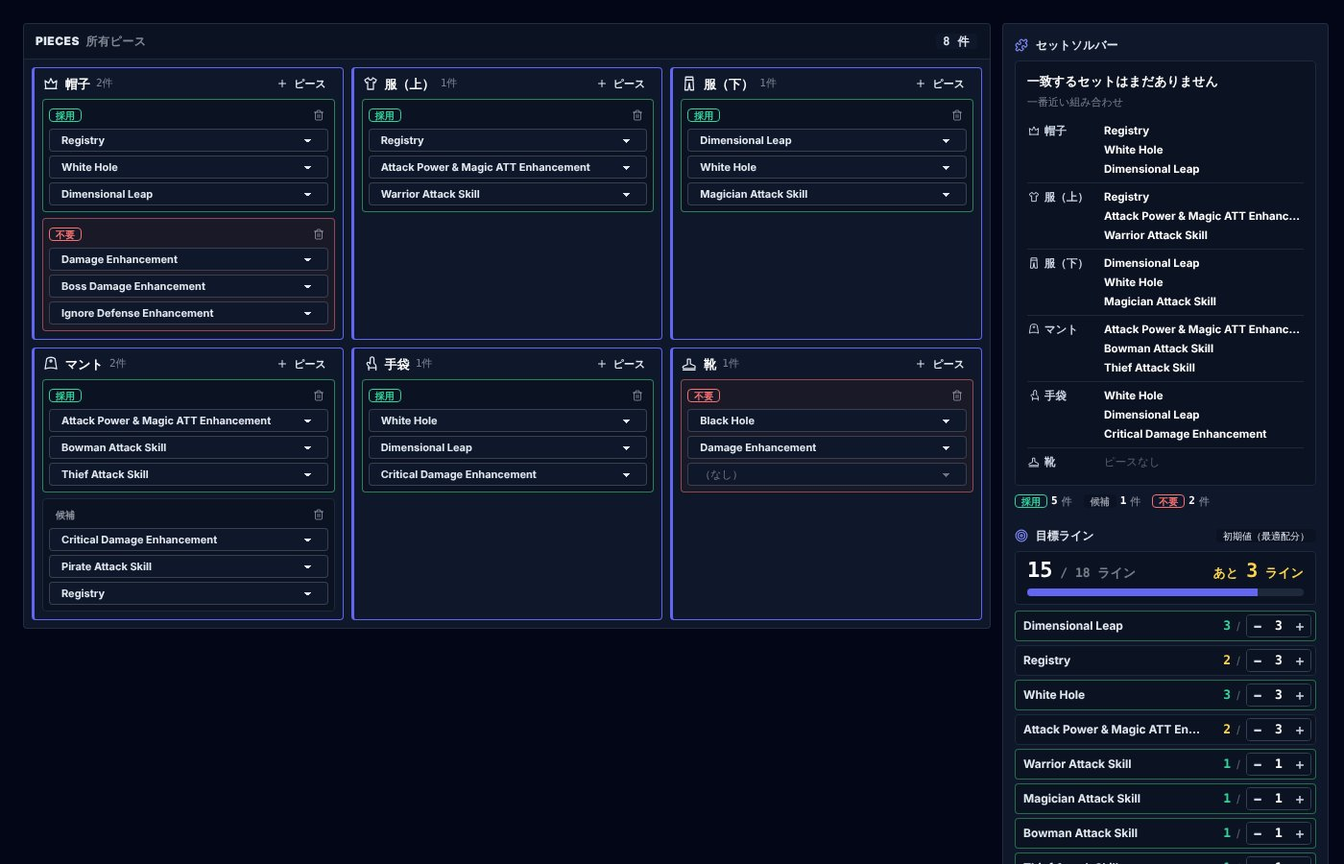
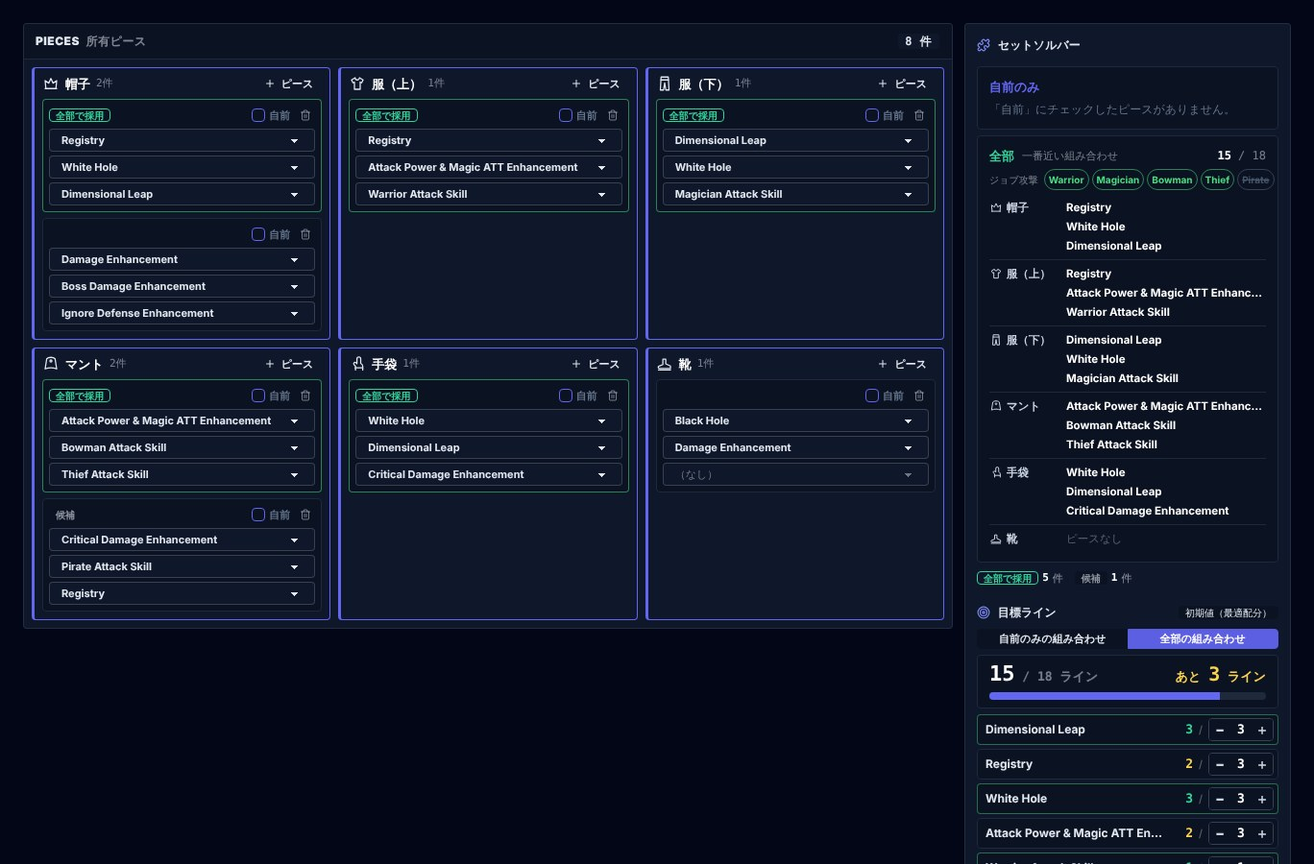
Quanah Tools: アプリのキーを quanah に（旧 #libae は転送）、所有ピースの「不要」札を削除
- APPS のキーと要素の id を quanah に。旧キーは APP_ALIASES で今のキーへ読み替え、URL も書き換える
- 利用状況は旧キーの記録を今のキーにまとめて数える
- 所有ピースの「不要」札・赤枠・件数を出さない（入力のたびに変わって誤解を招くため）。Guide・README も合わせて修正、Guide のスクショ 18 を撮り直し

Claude-Session: https://claude.ai/code/session_01VfuuungApVwhHvPPZNJUXm

diff --git a/public/libae_gear.js b/public/libae_gear.js
@@ -1,12 +1,12 @@
 /* =========================================================
- *  Quanah Tools（サイドバーの Event。旧名 Libae's Gear、キー libae はそのまま）
+ *  Quanah Tools（サイドバーの Event。旧名 Libae's Gear。アプリのキーは quanah、ファイル名と保存キーは libae のまま）
  *  Event World: Quanah の装備「Libae's Supercharged」6部位の [Hologram] スキルラインとジュエルを登録して、
  *  スキルの合計レベル・ジュエルのステータス・ジュエル強化の残り素材（Dust 換算）を出す。
  *  bi がアップロードした単体版（Libae's gear 管理アプリ 公開版、2026-11-08 調査の PTS 情報）を移植（2026-11-09）。
  *  2026-11-13 の公開版に合わせて、目標ライン（18ラインの目標配分）・装備ラインの判定（寄与／超過／対象外）・
  *  所有ピースとセットソルバー（各部位1つずつ選んで目標に合う組み合わせを探す）を追加。
  *
- *  - 上部ヘッダーのタブ（#libae-nav）で 装備管理／所有ピース／ジュエル強化／資料 を切り替える。
+ *  - 上部ヘッダーのタブ（#quanah-nav）で 装備管理／所有ピース／ジュエル強化／資料 を切り替える。
  *  - 保存はこのブラウザだけ（libae-gear-public-v1 / libae-jewel-settings-public-v1 / libae-skill-target-public-v1 /
  *    libae-owned-pieces-public-v1、単体版と同じキー）。JSON の書き出し・読み込みは単体版と同じ形
  *    （app: 'libae-gear', version: 1、skillTarget・ownedPieces 付き）で、本家アプリの書き出し（gear が配列）も読める。
@@ -435,7 +435,8 @@ const libaeGear = (() => {
         return { exact: !!best && matched === totalTarget && best[2] === 0, truncated, counts: bestCounts, picks: pickList, shortage, excess, matched, totalTarget,
             atkCovered: ATK.filter((nm) => atkHave.has(nm)), atkPossible: ATK.filter((_, x) => suffixAtk[0] & (1 << x)) };
     }
-    // ピースの判定: 採用（最適セットに入っている）／候補（足りないスキルを含む）／不要（足りないスキルを1つも含まない）。
+    // ピースの判定: 採用（最適セットに入っている）／候補（足りないスキルを含む）／unneeded（足りないスキルを1つも含まない）。
+    // unneeded は画面に札を出さない（入力のたびに変わって誤解を招くため、2026-11-17 bi 指示）。
     function classifyPieces(pieces, targetLines, result) {
         const verdicts = {}; if (!result) return verdicts;
         const tm = targetMapOf(targetLines);
@@ -451,7 +452,6 @@ const libaeGear = (() => {
     const PIECE_VERDICT = {
         adopted: { label: '採用', cls: 'badge-success badge-outline', tip: '最適セットに採用中' },
         candidate: { label: '候補', cls: 'badge-ghost text-base-content/60', tip: '足りないスキルを含むので保持' },
-        unneeded: { label: '不要', cls: 'badge-error badge-outline', tip: '足りないスキルを1つも含まない（処分してよい目安）' },
     };
 
     /* ---------- 装備管理 ---------- */
@@ -662,8 +662,8 @@ const libaeGear = (() => {
         const del = pieceDelAsk === p.id
             ? `<button type="button" class="btn btn-error btn-xs h-5 min-h-0" data-act="p-del-yes" data-pid="${p.id}">本当に削除</button><button type="button" class="btn btn-ghost btn-xs h-5 min-h-0" data-act="p-del-no">キャンセル</button>`
             : `<button type="button" class="btn btn-ghost btn-xs btn-square h-5 min-h-0 w-5 text-base-content/50 hover:text-error" data-act="p-del" data-pid="${p.id}" title="このピースを削除" aria-label="${esc(SLOT_LABEL[slot])}のピースを削除"><i data-lucide="trash-2" class="w-3 h-3"></i></button>`;
-        const badges = v === 'adopted' ? `${adopt.own ? ADOPT_BADGE.own : ''}${adopt.all ? ADOPT_BADGE.all : ''}` : v ? pvBadge(v) : '<span class="text-[11px] text-base-content/40">ライン未入力</span>';
-        const box = dupOf ? 'lg-piece-dup' : v === 'unneeded' ? 'lg-piece-unneeded' : v === 'adopted' ? (adopt.all ? 'lg-piece-adopted' : 'lg-piece-adopted-own') : '';
+        const badges = v === 'adopted' ? `${adopt.own ? ADOPT_BADGE.own : ''}${adopt.all ? ADOPT_BADGE.all : ''}` : v === 'unneeded' ? '' : v ? pvBadge(v) : '<span class="text-[11px] text-base-content/40">ライン未入力</span>';
+        const box = dupOf ? 'lg-piece-dup' : v === 'adopted' ? (adopt.all ? 'lg-piece-adopted' : 'lg-piece-adopted-own') : '';
         return `<div class="lg-piece ${box}">
             <div class="flex items-center gap-1 h-5">${dupOf ? dupBadge(dupOf) : ''}${badges}<span class="ml-auto flex items-center gap-1.5"><label class="lg-own ${p.own ? 'lg-own-on' : ''}" title="自前の装備（自分で持っているピース）。「自前のみ」の組み合わせに使います"><input type="checkbox" class="checkbox checkbox-primary checkbox-xs" data-act="p-own" data-pid="${p.id}" ${p.own ? 'checked' : ''}>自前</label>${del}</span></div>
             <div class="flex flex-col gap-1 mt-1">${vals.map((val, i) => `<select data-act="p-line" data-pid="${p.id}" data-idx="${i}" class="select select-xs w-full min-w-0 ${val ? 'font-bold' : 'text-base-content/45'}" aria-label="${esc(SLOT_LABEL[slot])}のピース スキルライン ${i + 1}">${skillOptionsHTML(val, vals.filter((_, j) => j !== i))}</select>`).join('')}</div>
@@ -671,7 +671,7 @@ const libaeGear = (() => {
     }
     function piecesHTML() {
         const pieces = ownedPieces, lines = effectiveTargetLines();
-        // 組み合わせは 全部 と 自前のみ の2通り。ピースの判定（採用／候補／不要）は2通りの良い方
+        // 組み合わせは 全部 と 自前のみ の2通り。ピースの判定（採用／候補）は2通りの良い方
         // （自前のピースは 自前のみ の組み合わせでの判定も見る。どちらかで採用なら採用）。
         const result = pieces.length ? solveSet(pieces, lines) : null;
         const ownPieces = pieces.filter((p) => p.own);
@@ -722,7 +722,7 @@ const libaeGear = (() => {
         else {
             side += card('own', '自前のみ', ownResult, '「自前」にチェックしたピースがありません。');
             side += card('all', '全部', result, '');
-            side += `<div class="flex flex-wrap items-center gap-x-3 gap-y-1 mt-1.5 text-[11px] text-base-content/60">${ownResult ? `<span class="inline-flex items-center gap-1">${ADOPT_BADGE.own}<b class="font-mono text-white">${inOwn.size}</b>件</span>` : ''}<span class="inline-flex items-center gap-1">${ADOPT_BADGE.all}<b class="font-mono text-white">${inAll.size}</b>件</span>${['candidate', 'unneeded'].map((k) => `<span class="inline-flex items-center gap-1" title="${esc(PIECE_VERDICT[k].tip)}（自前のピースは自前のみの組み合わせでも判定し、良い方）">${pvBadge(k)}<b class="font-mono text-white">${counts[k]}</b>件</span>`).join('')}${dupCount ? `<span class="inline-flex items-center gap-1">${dupBadge(0)}<b class="font-mono text-white">${dupCount}</b>件</span>` : ''}</div>`;
+            side += `<div class="flex flex-wrap items-center gap-x-3 gap-y-1 mt-1.5 text-[11px] text-base-content/60">${ownResult ? `<span class="inline-flex items-center gap-1">${ADOPT_BADGE.own}<b class="font-mono text-white">${inOwn.size}</b>件</span>` : ''}<span class="inline-flex items-center gap-1">${ADOPT_BADGE.all}<b class="font-mono text-white">${inAll.size}</b>件</span>${['candidate'].map((k) => `<span class="inline-flex items-center gap-1" title="${esc(PIECE_VERDICT[k].tip)}（自前のピースは自前のみの組み合わせでも判定し、良い方）">${pvBadge(k)}<b class="font-mono text-white">${counts[k]}</b>件</span>`).join('')}${dupCount ? `<span class="inline-flex items-center gap-1">${dupBadge(0)}<b class="font-mono text-white">${dupCount}</b>件</span>` : ''}</div>`;
         }
         const shown = patView === 'own' ? ownResult : result;
         const toggle = pieces.length && result ? `<div class="join w-full mb-1.5" role="group" aria-label="目標ラインに出す組み合わせ">${[['own', '自前のみ'], ['all', '全部']].map(([k, l]) => `<button type="button" class="btn btn-xs join-item flex-1 ${patView === k ? 'btn-primary' : ''}" data-act="pat" data-pat="${k}" aria-pressed="${patView === k}">${l}の組み合わせ</button>`).join('')}</div>` : '';
@@ -983,7 +983,7 @@ const libaeGear = (() => {
     /* ---------- 描画 ---------- */
     const icons = () => { if (window.lucide) lucide.createIcons(); };
     function syncNav() {
-        document.querySelectorAll('#libae-nav [data-tab]').forEach((b) => b.classList.toggle('tab-active', b.dataset.tab === tab));
+        document.querySelectorAll('#quanah-nav [data-tab]').forEach((b) => b.classList.toggle('tab-active', b.dataset.tab === tab));
     }
     function render() {
         if (!rootEl) return;

diff --git a/public/guide.js b/public/guide.js
@@ -22,13 +22,13 @@ const guide = {
                       '説明の右上の「開く」で、そのアプリを開けます。'] },
         ] },
         { group: 'Event', icon: 'party-popper', apps: [
-            { key: 'libae', name: 'Quanah Tools', one: 'Event World: Quanah の装備「Libae\'s Supercharged」6部位のスキルラインとジュエルを登録して、スキルの合計レベル・目標ラインまでの残り・ジュエルのステータス・ジュエル強化の残り素材を出します。手持ちのピースから目標に合う組み合わせも探せます。ダンジョン Battlesim のプログラム図鑑も付いています。',
+            { key: 'quanah', name: 'Quanah Tools', one: 'Event World: Quanah の装備「Libae\'s Supercharged」6部位のスキルラインとジュエルを登録して、スキルの合計レベル・目標ラインまでの残り・ジュエルのステータス・ジュエル強化の残り素材を出します。手持ちのピースから目標に合う組み合わせも探せます。ダンジョン Battlesim のプログラム図鑑も付いています。',
               steps: ['「装備管理」で部位ごとに [Hologram] スキルライン（最大3つ）を選び、「＋ ソケット」でジュエルの色と Lv、能力を入れます。プリズマティックジュエルはスキルかステータスを2行選べます。',
                       '右の列に、スキルごとの合計 Lv（装備＋ジュエル。藍色が装備、ピンクがジュエル）と、ジュエルで増えるステータスの合計が出ます。装備のラインは1スキル Lv.3 まで、ジュエル込みの上限（Master Level）は Lv.8 です。',
                       '右の列の「目標ライン」は、スキルごとに何ライン積みたいかの目標です。初期値は isophi の 3L Set Solver の最適配分（Dimensional Leap・Registry・White Hole・攻撃力＆魔力が各3、ジョブ攻撃5種が各1、クリティカルダメージが1、合計18）で、「−」「＋」で変えたり、下の欄でスキルを足したりできます（0 にするとその行が消えます）。「Job Attack Skills (Total)」を足すと、ジョブ攻撃5種をまとめて数えます。下の「クリダメ・ボスダメはどちらでもよい」にチェックすると、Critical Damage Enhancement と Boss Damage Enhancement の目標を合わせて1行にし、どちらのラインでも埋まったと数えます（判定とセットソルバーの両方）。',
                       '装備の各スキルラインは、目標に対して色が付きます。緑（寄与）は目標を満たすのに使われているライン、赤（超過）は目標の数を超えた分、灰（対象外）は目標にないスキルです。数える順は、プリズマティックジュエルの分が先で、次に 帽子→マント→服（上）→服（下）→手袋→靴 の順です。部位名の横の「寄与 x/y」が0本の部位は赤い枠になります。',
                       '「所有ピース」には、装備していない手持ちのピースを部位ごとに「＋ ピース」で登録します（1つの装備に同じスキルは付かないので、装備管理と同じく、同じピースの他の行で選んだスキルは選択肢に出ません）。自分で持っているピースには「自前」にチェックを付けます。右の「セットソルバー」が、各部位から1つずつ選んで目標ラインに一致する組み合わせ（なければ一番近いもの）を、「自前のみ」（チェックしたピースだけ）と「全部」の2通りで出します。選ぶ基準は、まずジョブ攻撃5種（Warrior・Magician・Bowman・Thief・Pirate Attack Skill）がそれぞれ1ライン以上あること、次に目標ラインがいちばん多く埋まること、最後に目標を超えるラインが少ないことの順です。各組み合わせの「ジョブ攻撃」の欄で、揃った種類が緑、足りない種類が取り消し線で出ます。右下の目標ラインは、上のボタンで選んだ方の組み合わせでの達成状況です。',
-                      '各ピースには判定が付きます。「自前で採用」（藍）は自前のみの組み合わせ、「全部で採用」（緑）は全部の組み合わせに入っているピースで、両方に入っていれば2つ並びます。組み合わせの見出しも同じ色です。「候補」は組み合わせで足りないスキルを含むので取っておくピース、「不要」は足りないスキルを1つも含まないピース（処分してよい目安）です。目標やピースを変えると付け直します。',
+                      '各ピースには判定が付きます。「自前で採用」（藍）は自前のみの組み合わせ、「全部で採用」（緑）は全部の組み合わせに入っているピースで、両方に入っていれば2つ並びます。組み合わせの見出しも同じ色です。「候補」は組み合わせで足りないスキルを含むので取っておくピースです。目標やピースを変えると付け直します。',
                       '「ジュエルを一括で」の Lv を押すと、装着中のジュエルを全部その Lv にします（空きソケットはそのまま）。',
                       '「ジュエル強化」で、Lv.5 までに要る素材の残りを、全体・色別・装備ごとに見られます。素材は同じ色のジュエルだけ使え、足りない分を Dust で買う量（カラー 500、プリズマティック 3,000）も出ます。',
                       '「バトルシム」は、ダンジョン Battlesim で手に入るプログラム全46種の図鑑です。上にフュージョン（Overclocked Fusion）の取る順番と、評価（取る／状況次第／取らない／マイナス効果／言及なし）ごとのアイコン一覧があり、アイコンを押すとそのプログラムの説明に移ります。下の欄で名前や効果を検索したり、評価で絞り込んだりできます。評価は Shapaz さんのガイド動画、アイコンと効果は GMS クライアントから抽出したデータです。',

diff --git a/public/index.html b/public/index.html
@@ -115,7 +115,7 @@
                 </button></li>
                 <!-- 期間限定のイベント用のアプリ。 -->
                 <li class="menu-title">Event</li>
-                <li><button onclick="app.switchApp('libae')" id="app-libae"
+                <li><button onclick="app.switchApp('quanah')" id="app-quanah"
                     class="nav-item" title="Quanah Tools（Quanah の Libae's Supercharged 装備のスキルラインとジュエル、バトルシムのプログラム図鑑）">
                     <i data-lucide="gem" class="w-5 h-5"></i>
                     <span class="nav-label">Quanah Tools</span>
@@ -326,7 +326,7 @@
                 <button onclick="expUltima.setWorld('CHALLENGER')" data-world="CHALLENGER" role="tab" class="tab">Challenger</button>
             </nav>
             <!-- Quanah Tools の 装備管理／所有ピース／ジュエル強化／バトルシム／資料（Quanah Tools のときだけ出す）。押したときの切り替えは libae_gear.js -->
-            <nav id="libae-nav" role="tablist" class="tabs tabs-box tabs-sm flex-nowrap hidden mr-3 shrink-0">
+            <nav id="quanah-nav" role="tablist" class="tabs tabs-box tabs-sm flex-nowrap hidden mr-3 shrink-0">
                 <button onclick="libaeGear.setTab('gear')" data-tab="gear" role="tab" class="tab tab-active gap-1.5">
                     <i data-lucide="shirt" class="w-3.5 h-3.5"></i>装備管理
                 </button>
@@ -486,7 +486,7 @@
                 <!-- 中身は symbol_planner.js が描く。初回オープン時に読み込む（script.js の APPS）。 -->
                 <div id="view-symbol" class="hidden-page fade-in"></div>
                 <!-- 中身は libae_gear.js が描く。初回オープン時に読み込む（script.js の APPS）。 -->
-                <div id="view-libae" class="hidden-page fade-in"></div>
+                <div id="view-quanah" class="hidden-page fade-in"></div>
                 <!-- 中身は exp_ultima.js が描く（計算は exp_plan.js と共通）。初回オープン時に読み込む（script.js の APPS）。 -->
                 <div id="view-ultima" class="hidden-page fade-in"></div>
                 <!-- 中身は kms_videos.js が描く。初回オープン時に読み込む（script.js の APPS）。 -->

diff --git a/public/script.js b/public/script.js
@@ -624,11 +624,12 @@ const app = {
             init() { partyScouter.init('view-ptscouter'); },
             reopen() { partyScouter.render(); }
         },
-        libae: {
-            view: 'view-libae',
-            nav: 'libae-nav',
+        // Quanah Tools（旧名 Libae's Gear）。ファイル名と保存キーは libae のまま
+        quanah: {
+            view: 'view-quanah',
+            nav: 'quanah-nav',
             scripts: ['libae_battlesim.js', 'libae_gear.js'],
-            init() { libaeGear.init('view-libae'); },
+            init() { libaeGear.init('view-quanah'); },
             reopen() { libaeGear.render(); }
         },
         ultima: {
@@ -743,11 +744,19 @@ const app = {
     // ?view=1 などのクエリはそのまま残す。
     // アプリの中の画面も URL にしたいアプリは、/#<キー>/<中の画面> の形にする（今は Journal の回だけ）。
     // APPS の route(sub) が URL から画面を合わせ、subpath() が今の画面の名前を返す。
+    // 改名したアプリの旧キー → 今のキー。共有済みの古い URL もそのアプリで開き、URL は今のキーに直す。
+    // 利用状況（usage_stats.js）も旧キーの記録を今のキーにまとめて数える。
+    APP_ALIASES: { libae: 'quanah' },
+
     hashRoute() {
         let hash = location.hash.slice(1);
         try { hash = decodeURIComponent(hash); } catch (e) { /* 壊れた %xx はそのまま照合して外れる */ }
         const i = hash.indexOf('/');
-        const name = i < 0 ? hash : hash.slice(0, i);
+        let name = i < 0 ? hash : hash.slice(0, i);
+        if (Object.hasOwn(this.APP_ALIASES, name)) {
+            name = this.APP_ALIASES[name];
+            history.replaceState(null, '', `${location.pathname}${location.search}#${name}${i < 0 ? '' : hash.slice(i)}`);
+        }
         if (!Object.hasOwn(this.APPS, name)) return { name: 'planner', sub: '' };
         return { name, sub: i < 0 ? '' : hash.slice(i + 1) };
     },

diff --git a/public/usage_stats.js b/public/usage_stats.js
@@ -88,8 +88,12 @@ const usageStats = {
 
         const d = this.data;
         const site = d.daily.filter(r => r.app === '*');
-        const apps = d.daily.filter(r => r.app !== '*');
-        const periodBrowsers = Object.fromEntries(d.period.map(r => [r.app, r.browsers]));
+        // 改名したアプリの旧キー（script.js の APP_ALIASES）は今のキーにまとめる。
+        // ブラウザ数は旧と新で同じブラウザが重なるので、合計せず多い方を出す（下限の目安）。
+        const alias = (window.app && app.APP_ALIASES) || {};
+        const apps = d.daily.filter(r => r.app !== '*').map(r => alias[r.app] ? { ...r, app: alias[r.app] } : r);
+        const periodBrowsers = {};
+        d.period.forEach(r => { const k = alias[r.app] || r.app; periodBrowsers[k] = Math.max(periodBrowsers[k] || 0, r.browsers); });
 
         // アプリ別
         const byApp = {};

diff --git a/public/style.css b/public/style.css
@@ -672,7 +672,6 @@ body {
 .lg-own.lg-own-on { color: #a5b4fc; }
 .lg-piece.lg-piece-dup { border-color: color-mix(in oklab, #fbbf24 60%, transparent); border-style: dashed; }
 .lg-piece.lg-piece-adopted-own { border-color: color-mix(in oklab, var(--color-primary) 70%, transparent); }
-.lg-piece.lg-piece-unneeded { border-color: color-mix(in oklab, #f87171 55%, transparent); background: color-mix(in oklab, #f87171 7%, #0b1222); }
 .lg-solved { border-color: #4ade80; border-width: 2px; }
 .lg-atk { padding: 0 4px; white-space: nowrap; border: 1px solid #334155; border-radius: 9999px; font-weight: 700; color: #475569; text-decoration: line-through; }
 .lg-atk.lg-atk-on { border-color: color-mix(in oklab, #4ade80 55%, transparent); color: #4ade80; text-decoration: none; }

diff --git a/README.md b/README.md
@@ -17,7 +17,7 @@ Cloudflare Worker + 静的アセットとして配信している。ビルド工
 | --- | --- | --- | --- |
 | Information | Journal（旧 News） | `updates` | `public/gms_updates.js`（GMS・KMSのアップデート告知の和訳と、Bijyon のコラム。上部バーの GMS／KMS と、少し離した Column で切り替え、その一覧（新しい順）が出る。コラムは `region: 'COLUMN'`、id は `col-` で始める。選んだ回は目次＋全訳の1ページで、目次から各節へ飛び、各節の「↑ 目次へ」で戻る。和訳の書き方は `.claude/skills/news-translation/SKILL.md`。各回の本文と画像は `public/updates/<id>/`。新しい回は `python3 -I tools/import_gms_update.py <和訳.html> <id>` で取り込み、`public/updates/list.json` の先頭に1件足す。過去の回は消さない。各回は `/#updates/<id>` で開け、回のページの「リンクをコピー」で渡す `/journal/<id>` は `worker.js` が Discord などのプレビュー（タイトル・概要・カバー画像）を返してから `/#updates/<id>` へ送る。一覧は `/#updates/gms`・`kms`・`column`） |
 | Information | Guide | `guide` | `public/guide.js`（使い方ガイド。アプリ一覧・基本の操作・アプリごとの説明とスクショ・よくある質問。スクショは `public/assets/guide/`。アプリを足したり画面を大きく変えたりしたら、文とスクショも直す） |
-| Event | Quanah Tools | `libae` | `public/libae_gear.js`（Event World: Quanah の装備「Libae's Supercharged」6部位の [Hologram] スキルラインとジュエルを登録し、スキルの合計 Lv（装備は1スキル Lv.3 まで、ジュエル込みで Master Level 8）、ジュエルのステータス合計、Lv.5 までのジュエル強化の残り素材と Dust 換算を出す。上部バーの 装備管理／所有ピース／ジュエル強化／バトルシム／資料 で切り替え。バトルシムは `public/libae_battlesim.js`（ダンジョン Battlesim のプログラム46種の図鑑。評価は Shapaz さんのガイド、アイコンと効果は masonym.dev の抽出データ、アイコンは `public/assets/libae/battlesim/`）。目標ライン（18ラインの配分、初期値は isophi の 3L Set Solver の最適配分）に対して装備ラインを 寄与／超過／対象外 で判定し（「クリダメ・ボスダメはどちらでもよい」チェックで2つの目標を1行にまとめて数える）、所有ピースからは各部位1つずつ選んで目標に合う組み合わせを、自前のみ（ピースの「自前」チェック）と全部の2通りで探す（基準はジョブ攻撃5種を各1以上→目標の埋まり最大→超過最少の順、採用／候補／不要）。数値はクライアントデータ、スキル効果は PTS 時点の情報で、定数はファイル先頭。保存はブラウザの `libae-gear-public-v1`・`libae-jewel-settings-public-v1`・`libae-skill-target-public-v1`・`libae-owned-pieces-public-v1`（単体版と同じキー）、JSON の書き出し・読み込みも単体版と同じ形（本家アプリの書き出しも読める）。Event グループは期間限定のイベント用のアプリを置く） |
+| Event | Quanah Tools（旧 Libae's Gear） | `quanah`（旧 `libae` の URL も開ける） | `public/libae_gear.js`（Event World: Quanah の装備「Libae's Supercharged」6部位の [Hologram] スキルラインとジュエルを登録し、スキルの合計 Lv（装備は1スキル Lv.3 まで、ジュエル込みで Master Level 8）、ジュエルのステータス合計、Lv.5 までのジュエル強化の残り素材と Dust 換算を出す。上部バーの 装備管理／所有ピース／ジュエル強化／バトルシム／資料 で切り替え。バトルシムは `public/libae_battlesim.js`（ダンジョン Battlesim のプログラム46種の図鑑。評価は Shapaz さんのガイド、アイコンと効果は masonym.dev の抽出データ、アイコンは `public/assets/libae/battlesim/`）。目標ライン（18ラインの配分、初期値は isophi の 3L Set Solver の最適配分）に対して装備ラインを 寄与／超過／対象外 で判定し（「クリダメ・ボスダメはどちらでもよい」チェックで2つの目標を1行にまとめて数える）、所有ピースからは各部位1つずつ選んで目標に合う組み合わせを、自前のみ（ピースの「自前」チェック）と全部の2通りで探す（基準はジョブ攻撃5種を各1以上→目標の埋まり最大→超過最少の順、採用／候補）。数値はクライアントデータ、スキル効果は PTS 時点の情報で、定数はファイル先頭。保存はブラウザの `libae-gear-public-v1`・`libae-jewel-settings-public-v1`・`libae-skill-target-public-v1`・`libae-owned-pieces-public-v1`（単体版と同じキー）、JSON の書き出し・読み込みも単体版と同じ形（本家アプリの書き出しも読める）。Event グループは期間限定のイベント用のアプリを置く） |
 | Event | Ultima EXP Plan | `ultima` | `public/exp_ultima.js`（ミッション・ウルティマ GMS 2026-11-11〜2027-02-09 専用のアカウント計画。計算と画面は `public/exp_plan.js` の `expPlan` を引き継いだもので、保存は別（`mm-exp-ultima::<Planner の「自分」>`、初回だけアカウント計画の中身を写す）。ウルティマのバフ（エテリオン・レリック・特殊訓練）と Sunny Sunday のモンパを内蔵し、イベントバフ一覧の分を足すかはスイッチ。チャレンジャーパス・モメンタムパス・モメンタムパス PLUS の購入と受け取るキャラ、補給報告・Specter Blast（無料、Specter Blast は週1回で交換券 3,000 枚分）の受け取るキャラを選ぶと、報酬（上級EXP交換券・農場チケット・秘薬・サウナ券）がその日から入る。開始日より前に届いた分は使い終わった扱いで、未使用の数を品目ごとに入れると開始日に足す（`state.pass[id].left`）。中身と日付は GMS v.272 のパッチノートによるもの（モメンタムの2つは v.272 にないので KMS 実績からの見込み）で、ファイル先頭の `PASSES`・`BUFFS`・`ULTIMA_SUPPLY` に持つ。上級EXP交換券の量は `public/exp_data.js` の `expCouponExp`。イベントが終わったら APPS とサイドバーの行を外す） |
 | Tools | Character Manager | `planner` | `public/script.js` |
 | Tools | HEXA Tracker | `hexa` | `public/hexa_tracker.js`、`public/hexa_reader.js`（進捗入力の「ゲーム画面から読み取り」。HEXA Matrix の画面をスクショ・ライブ共有から読む。タイトルの位置だけ Tesseract.js で探し、ノードは固定の位置、Lvの小さな数字は形の照合で読む） |
